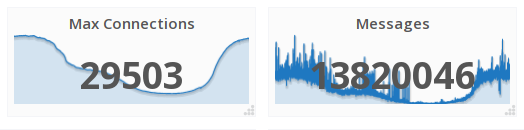
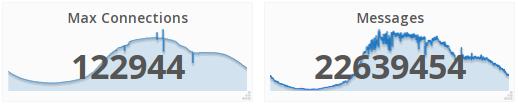
Update stats on the frontpage

diff --git a/docs/index.rst b/docs/index.rst
@@ -10,11 +10,11 @@ Github_ | Crate_
 
 
 .. figure:: messages.png
-   :alt: a screenshot of a dashboard showing a 29k simultaneous connections
-         and 13.8M messages in a day
+   :alt: a screenshot of a dashboard showing a 122k simultaneous connections
+         and 22.6M messages in a day
 
-   *While swindon is quite recent project it handles about 30k simultaneous
-   connections and 13-16 million messages per day in our setup. The screenshot
+   *While swindon is quite recent project it handles about 120k simultaneous
+   connections and ~20 million messages per day in our setup. The screenshot
    above shows just a random day from our dashboard.*
 
 
